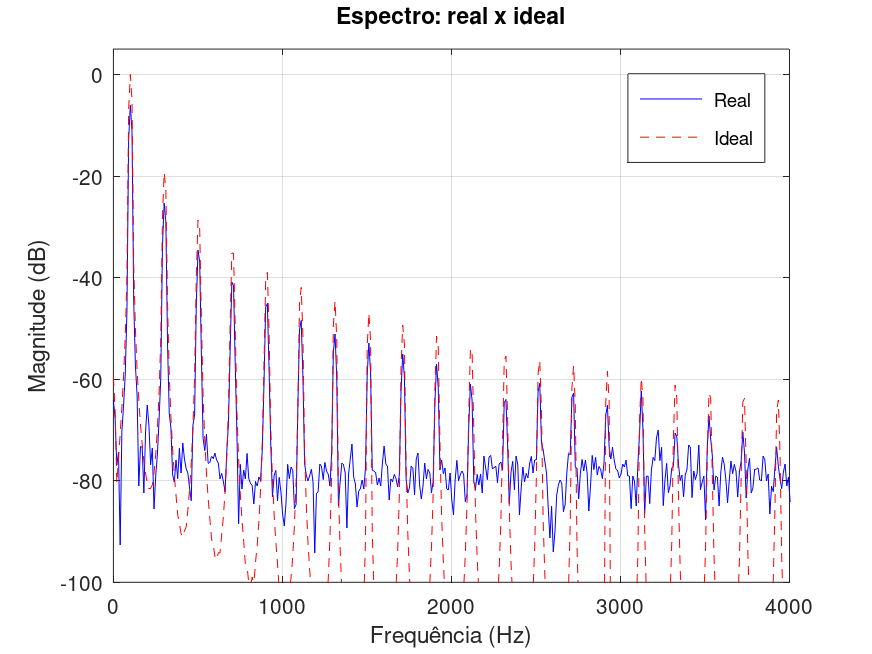
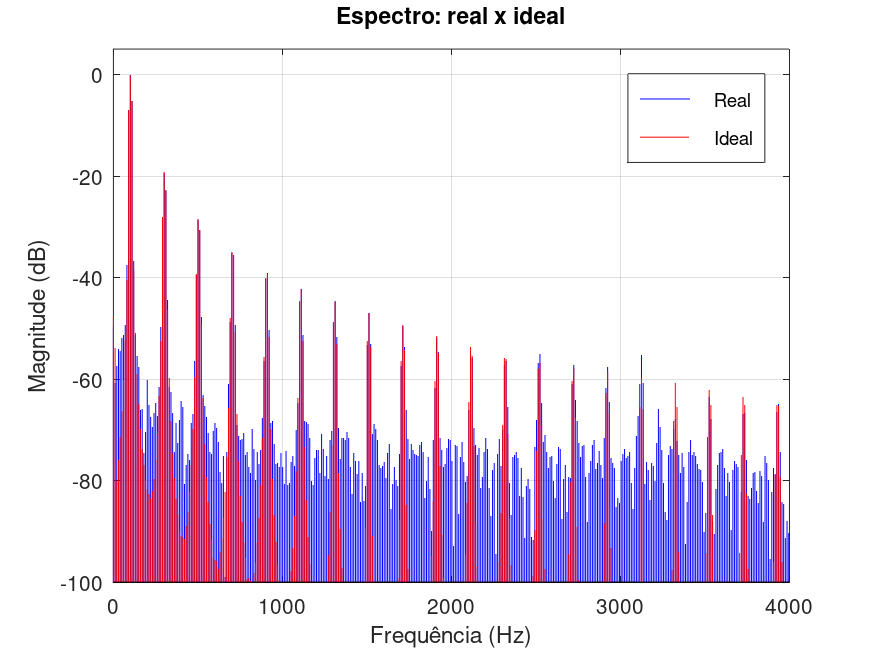
Att

Changed region(s): [[0.1239, 0.1529, 0.9289, 0.9174]]

diff --git a/Problema2.m b/Problema2.m
@@ -50,7 +50,7 @@ MODO     = 'arquivo';           % 'serial' = captura com o Arduino
                                 % 'arquivo' = usa um .csv já salvo
 %PORTA   = 'COM5';              % Windows
 PORTA    = "/dev/ttyUSB0";      % Linux
-ARQUIVO  = 'captura_2_2.5V.csv';% onde a captura é salva (ou lida)
+ARQUIVO  = 'captura_1_2.5V.csv';% onde a captura é salva (ou lida)
 
 % Medidas feitas no laboratório
 VREF     = 5.0;                 % AVcc medido com multímetro (V)
@@ -176,9 +176,9 @@ metade  = 1:floor(N/2);                     % só frequências positivas
 ref     = max(xIdeal);                      % 0 dB = fundamental ideal
 
 figure(2);
-plot(freq(metade), 20*log10(xReal(metade)/ref), 'b');
+stem(freq(metade), 20*log10(xReal(metade)/ref), 'b', 'marker', 'none', 'basevalue', -100);
 hold on;
-plot(freq(metade), 20*log10(xIdeal(metade)/ref), 'r--');
+stem(freq(metade), 20*log10(xIdeal(metade)/ref), 'r', 'marker', 'none', 'basevalue', -100);
 grid on;
 xlim([0 4000]);
 ylim([-100 5]);
